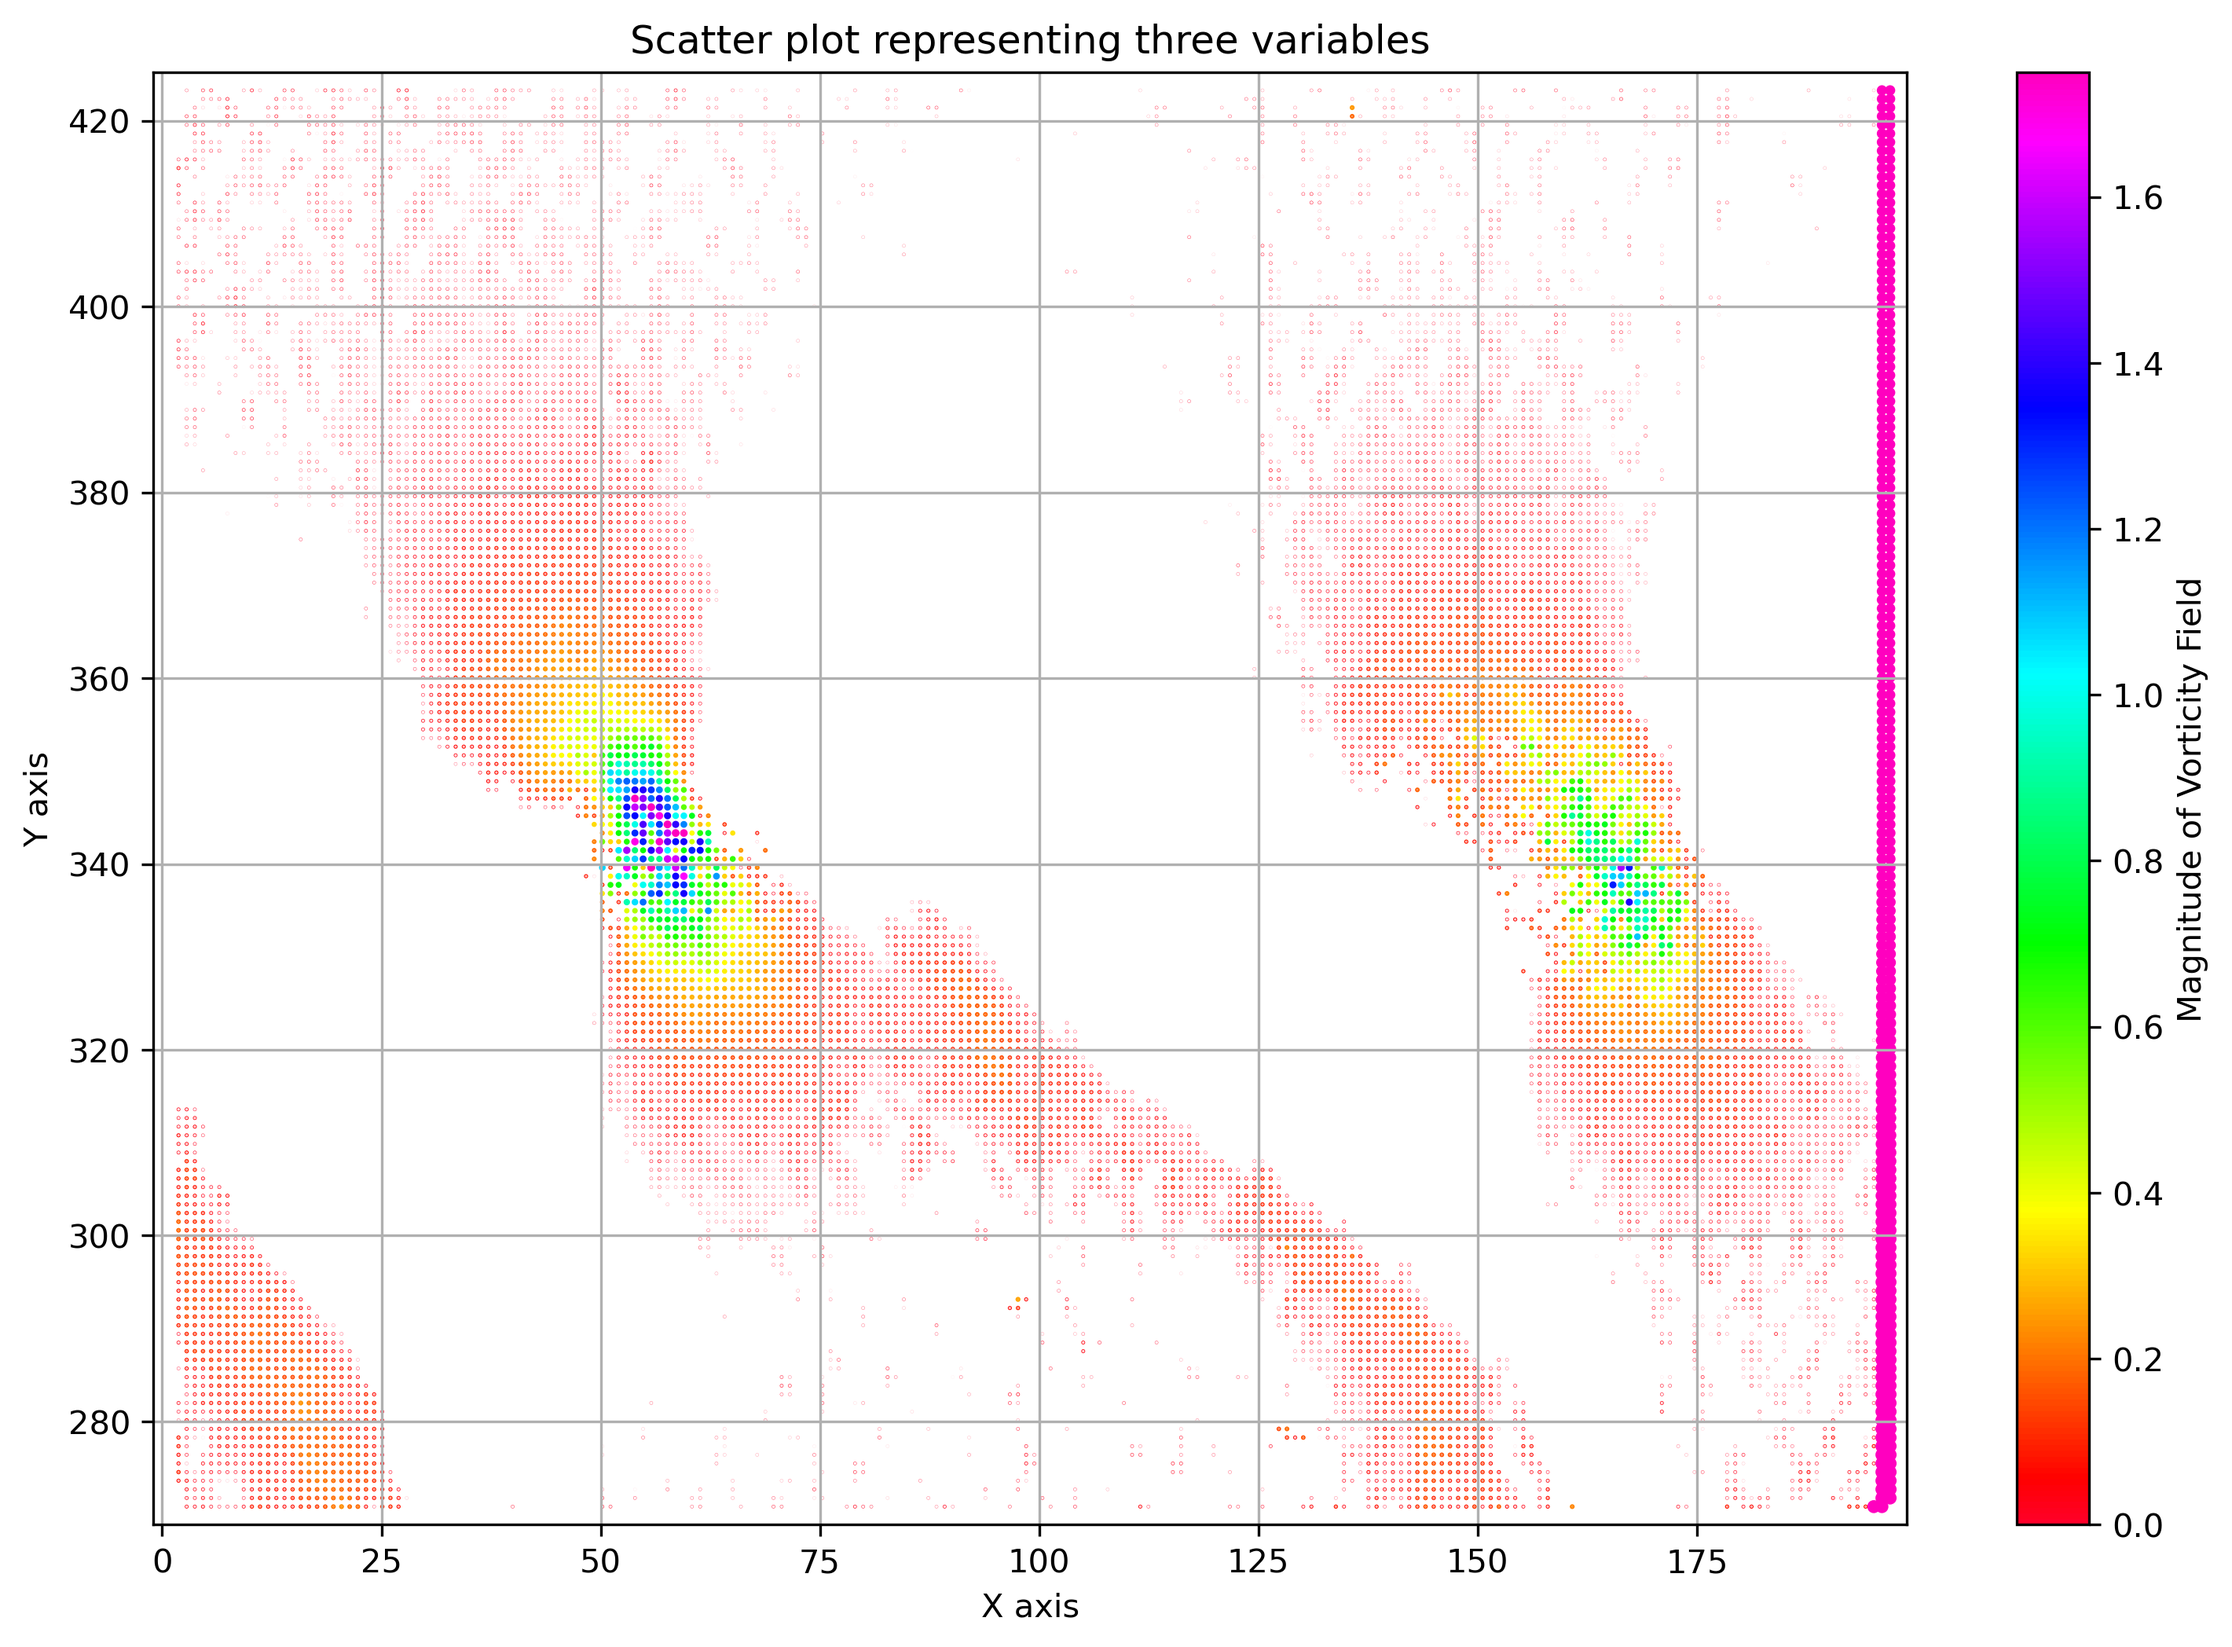
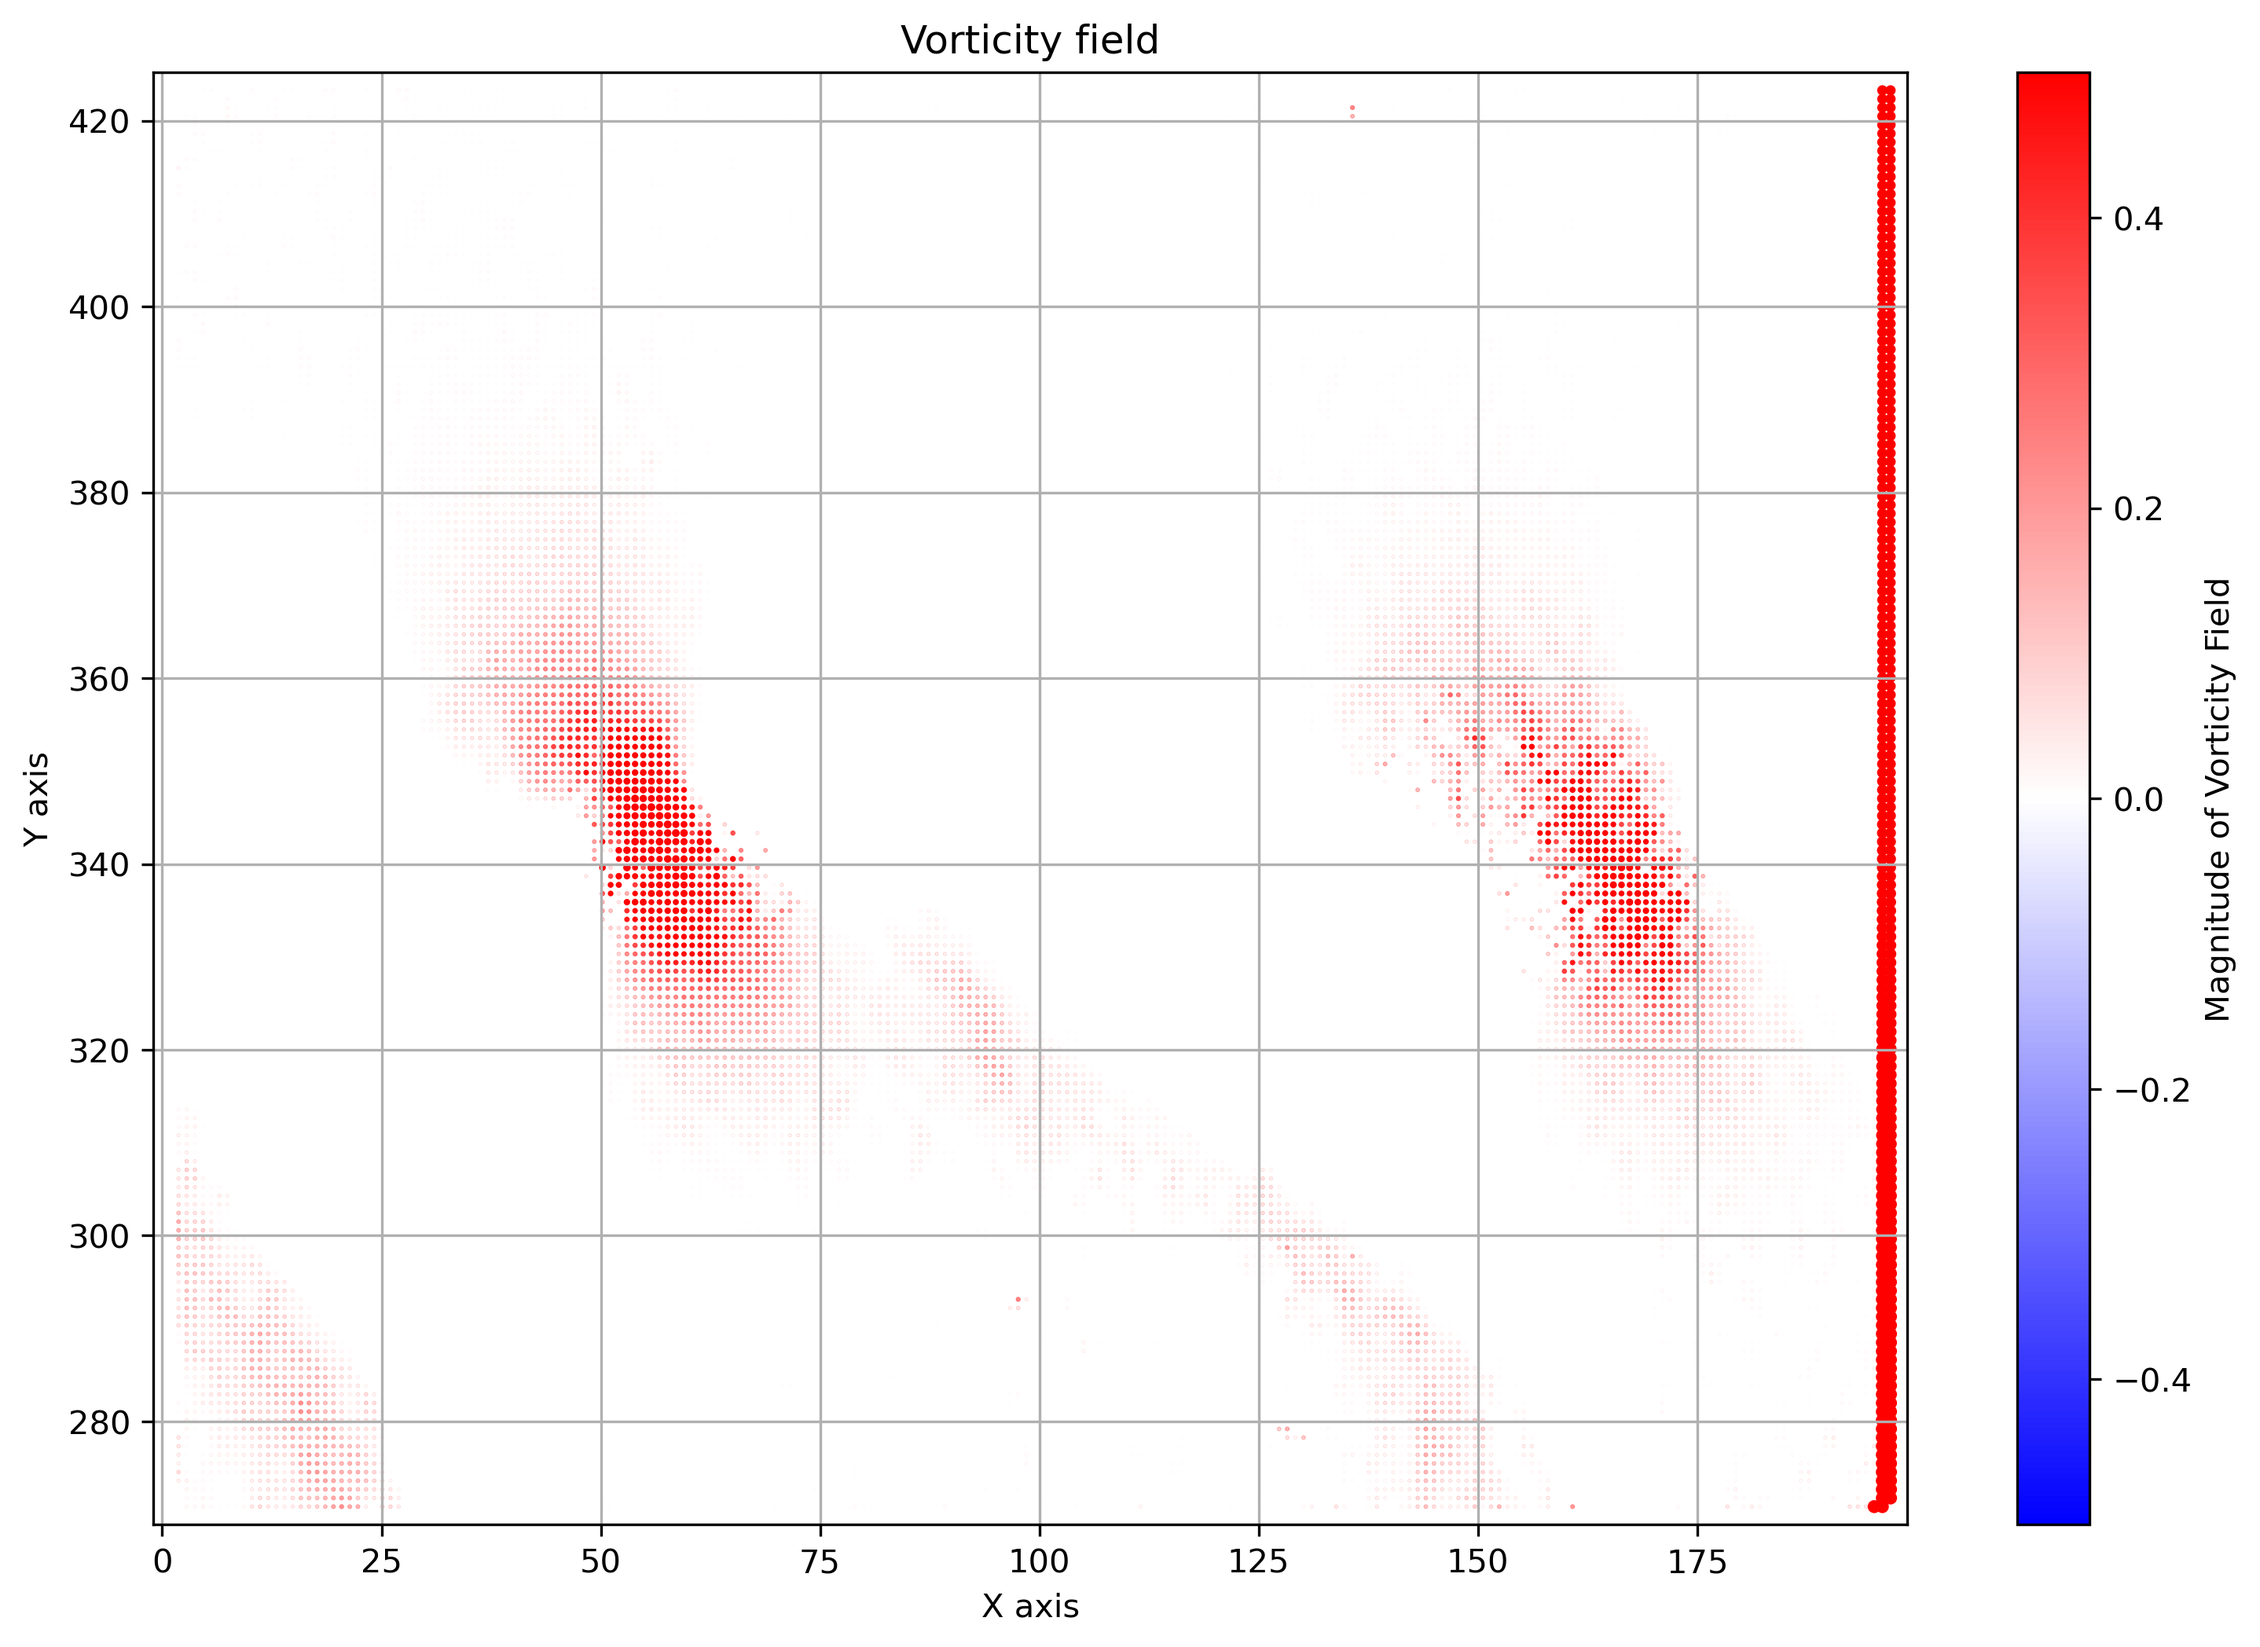
sync

diff --git a/Vorticity_image_gen.py b/Vorticity_image_gen.py
@@ -36,10 +36,10 @@ def Vorticity_image(u_magnitudes, v_magnitudes, plane, J_number, bin):
     
     
     # Define colormap from dark blue to bright red
-    cmap = plt.colormaps.get_cmap('gist_rainbow')
+    cmap = plt.colormaps.get_cmap('bwr')
 
     # Normalize magnitudes to range from 0 to 1
-    norm = Normalize(vmin=0, vmax=1.75)
+    norm = Normalize(vmin=-0.5, vmax=0.5)
 
     # Set figure size and DPI for high-quality image
     fig, ax = plt.subplots(figsize=(12, 8), dpi=300)
